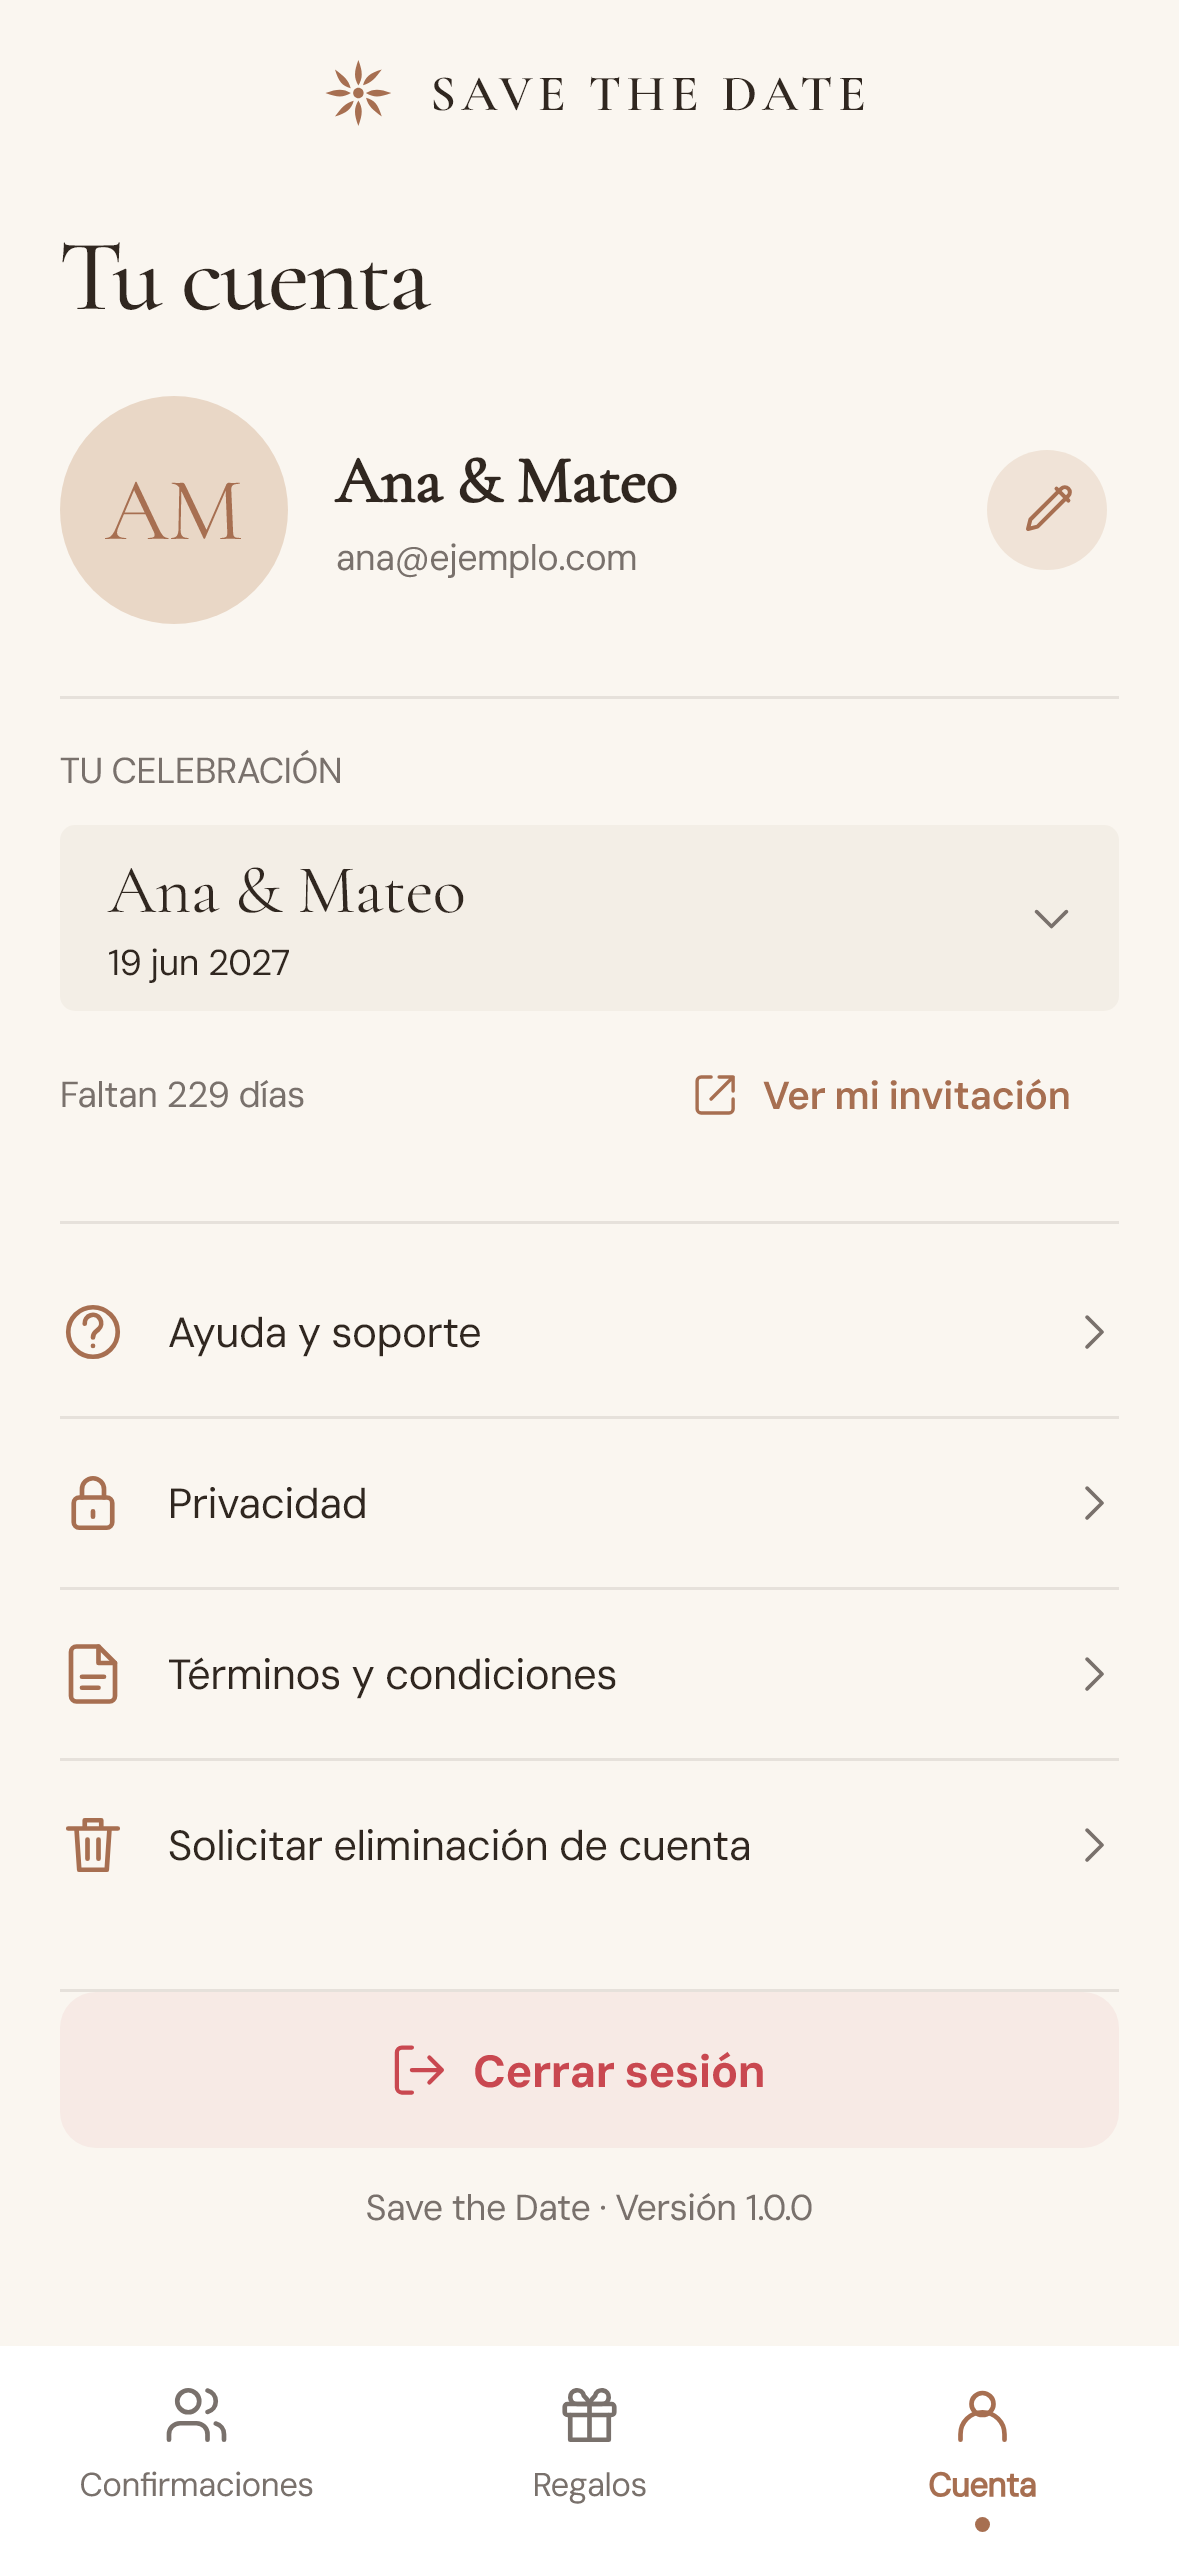
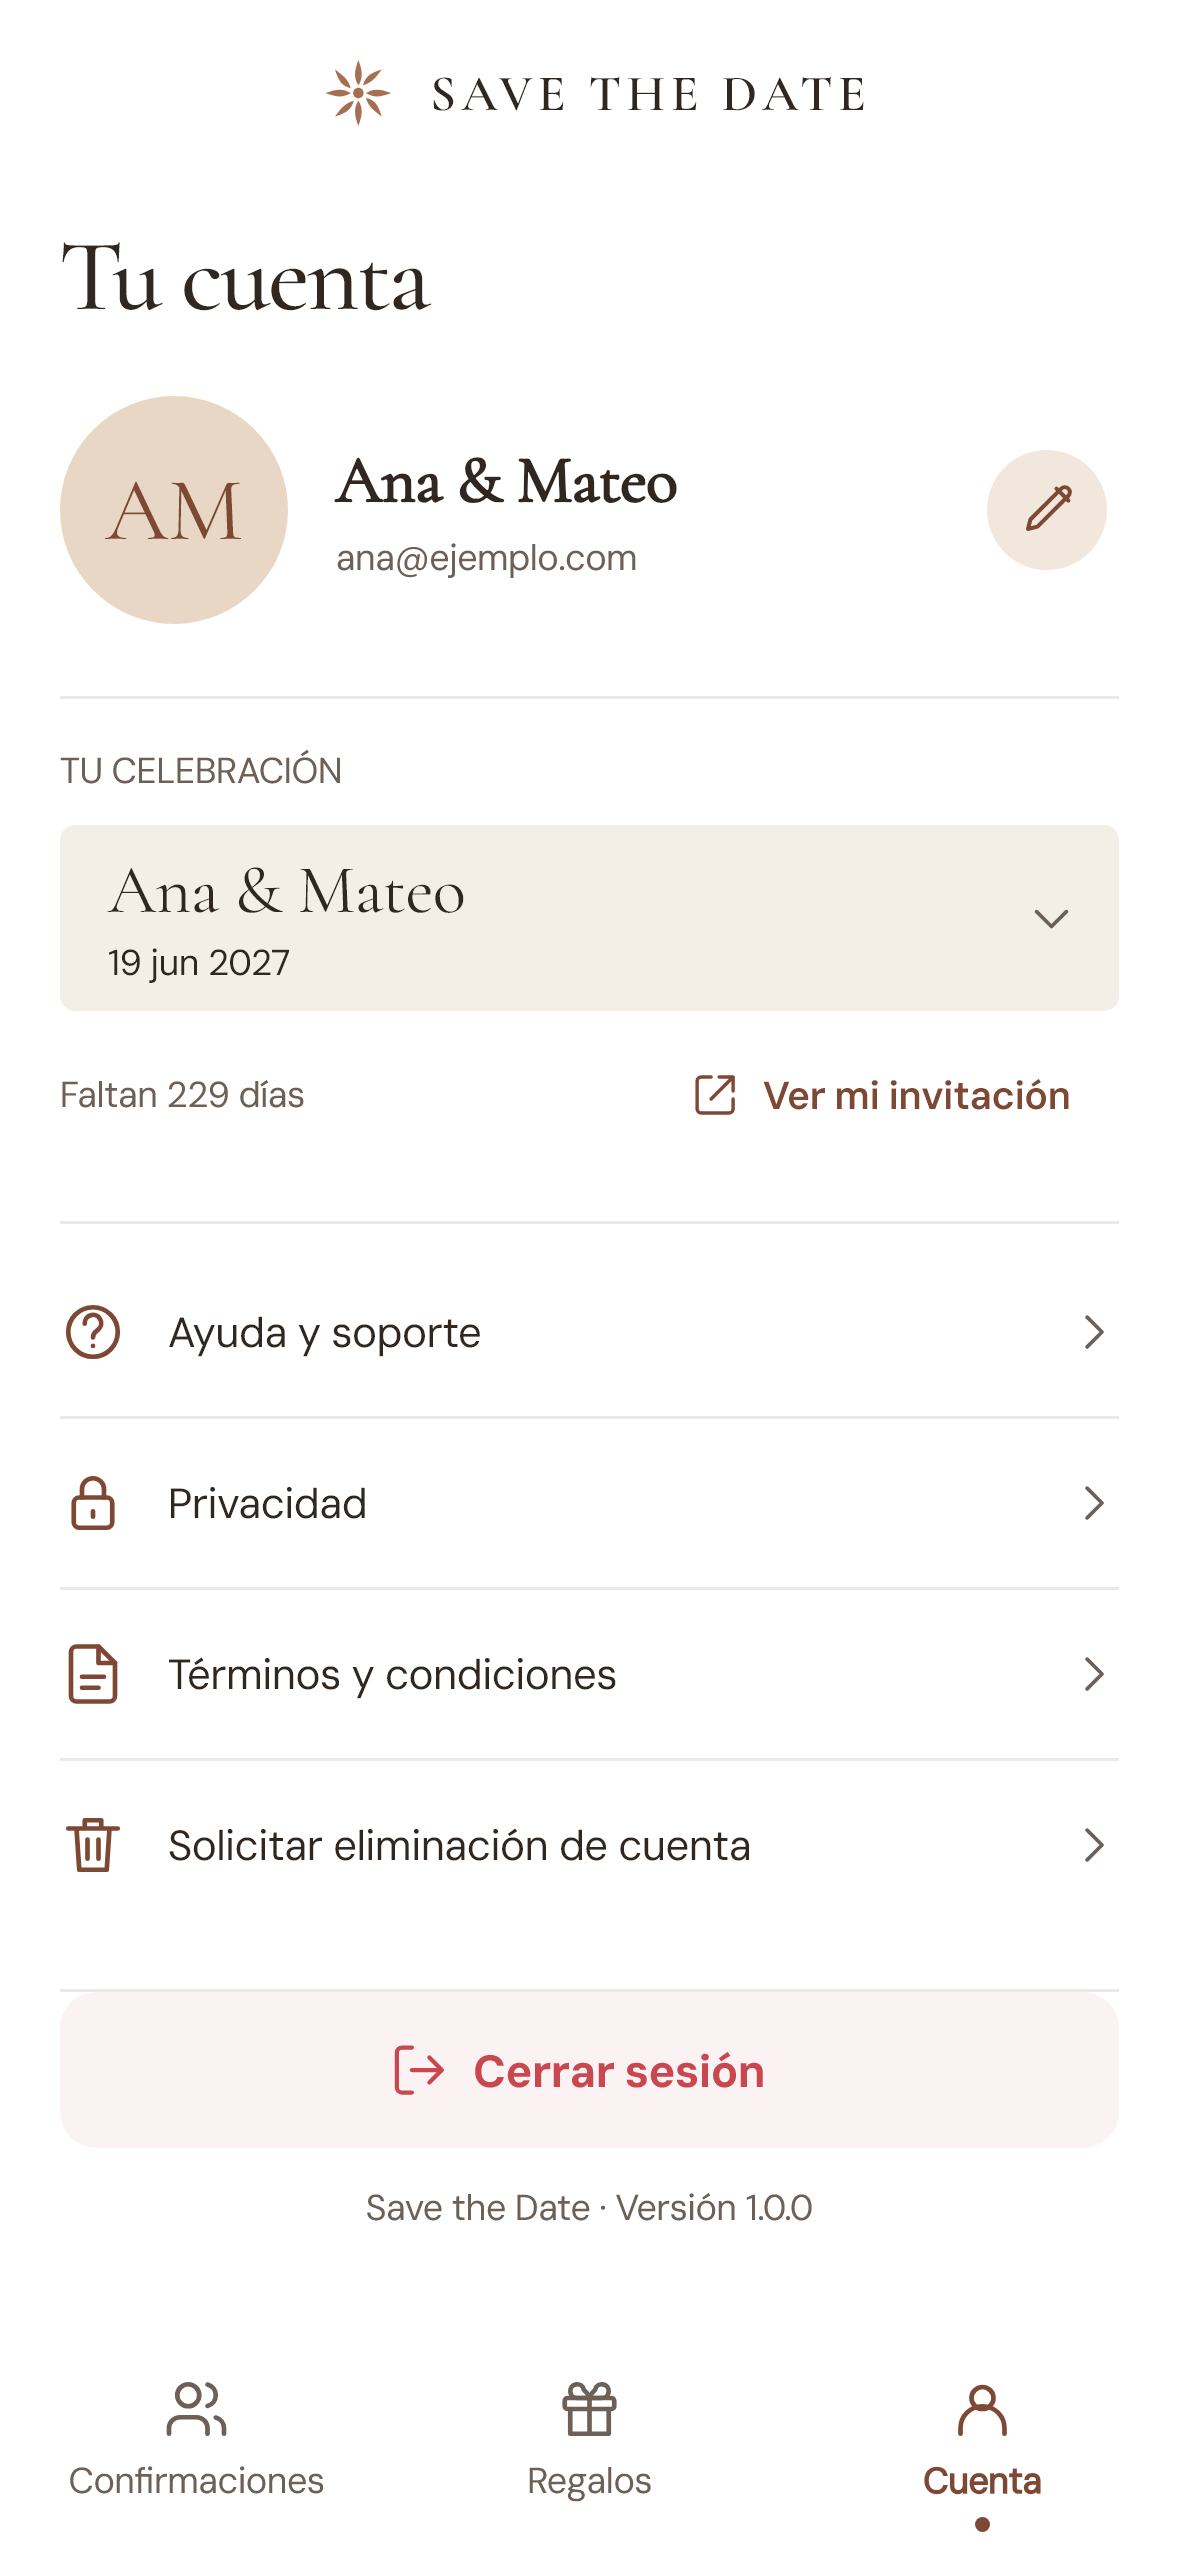
Improve mobile contrast and prepare build 4

diff --git a/lib/ui/theme.dart b/lib/ui/theme.dart
@@ -9,18 +9,21 @@ abstract final class AppTheme {
     final paper = dark ? const Color(0xFF211B2B) : AppConfig.paper;
     final muted = dark
         ? const Color(0xFFC2B8CE)
-        : (wedding ? const Color(0xFF79716C) : const Color(0xFF706883));
+        : (wedding ? const Color(0xFF6C6057) : const Color(0xFF625A70));
     final scheme =
         ColorScheme.fromSeed(
           seedColor: AppConfig.accent,
           brightness: brightness,
         ).copyWith(
           primary: dark ? AppConfig.soft : AppConfig.accent,
-          onPrimary: Colors.white,
+          onPrimary: dark ? AppConfig.ink : Colors.white,
           surface: paper,
           onSurface: ink,
           onSurfaceVariant: muted,
           surfaceContainerLowest: dark ? const Color(0xFF2C2538) : Colors.white,
+          surfaceContainerLow: dark
+              ? const Color(0xFF2C2538)
+              : const Color(0xFFF7F6F4),
           outlineVariant: ink.withValues(alpha: .10),
         );
     TextStyle body(
@@ -103,8 +106,8 @@ abstract final class AppTheme {
           horizontal: 14,
           vertical: 14,
         ),
-        hintStyle: body(13, color: muted.withValues(alpha: .8)),
-        labelStyle: body(13, color: muted),
+        hintStyle: body(14, color: muted),
+        labelStyle: body(14, color: muted),
         border: border,
         enabledBorder: border,
         focusedBorder: border.copyWith(
@@ -129,7 +132,7 @@ abstract final class AppTheme {
       listTileTheme: ListTileThemeData(
         iconColor: muted,
         textColor: ink,
-        selectedColor: AppConfig.accent,
+        selectedColor: scheme.primary,
         selectedTileColor: AppConfig.soft.withValues(alpha: .4),
       ),
     );

diff --git a/lib/ui/widgets/bottom_tabs.dart b/lib/ui/widgets/bottom_tabs.dart
@@ -1,5 +1,4 @@
 import 'package:flutter/material.dart';
-import '../../app_config.dart';
 import 'app_icon.dart';
 
 class BottomTabs extends StatelessWidget {
@@ -36,7 +35,7 @@ class BottomTabs extends StatelessWidget {
                         AppIcon(
                           icons[index],
                           color: selected == index
-                              ? AppConfig.accent
+                              ? Theme.of(context).colorScheme.primary
                               : Theme.of(context).colorScheme.onSurfaceVariant,
                         ),
                         const SizedBox(height: 5),
@@ -44,9 +43,9 @@ class BottomTabs extends StatelessWidget {
                           labels[index],
                           textAlign: TextAlign.center,
                           style: TextStyle(
-                            fontSize: 11,
+                            fontSize: 12,
                             color: selected == index
-                                ? AppConfig.accent
+                                ? Theme.of(context).colorScheme.primary
                                 : Theme.of(
                                     context,
                                   ).colorScheme.onSurfaceVariant,
@@ -62,7 +61,7 @@ class BottomTabs extends StatelessWidget {
                           decoration: BoxDecoration(
                             shape: BoxShape.circle,
                             color: selected == index
-                                ? AppConfig.accent
+                                ? Theme.of(context).colorScheme.primary
                                 : Colors.transparent,
                           ),
                         ),

diff --git a/test/theme_contrast_test.dart b/test/theme_contrast_test.dart
@@ -1,0 +1,38 @@
+import 'package:flutter/material.dart';
+import 'package:flutter_test/flutter_test.dart';
+import 'package:save_the_date/ui/theme.dart';
+
+double contrast(Color a, Color b) {
+  final l1 = a.computeLuminance(), l2 = b.computeLuminance();
+  return (l1 > l2 ? l1 + .05 : l2 + .05) / (l1 > l2 ? l2 + .05 : l1 + .05);
+}
+
+void main() {
+  for (final brightness in Brightness.values) {
+    test('readable text and actions in $brightness', () {
+      final theme = AppTheme.create(brightness);
+      final scheme = theme.colorScheme;
+      for (final surface in [scheme.surface, scheme.surfaceContainerLowest]) {
+        for (final ink in [
+          scheme.onSurface,
+          scheme.onSurfaceVariant,
+          scheme.primary,
+        ]) {
+          expect(contrast(ink, surface), greaterThanOrEqualTo(4.5));
+        }
+      }
+      expect(
+        contrast(scheme.onPrimary, scheme.primary),
+        greaterThanOrEqualTo(4.5),
+      );
+      final button = theme.filledButtonTheme.style!;
+      expect(
+        contrast(
+          button.foregroundColor!.resolve({})!,
+          button.backgroundColor!.resolve({})!,
+        ),
+        greaterThanOrEqualTo(4.5),
+      );
+    });
+  }
+}

diff --git a/lib/ui/widgets/common.dart b/lib/ui/widgets/common.dart
@@ -93,7 +93,7 @@ class FilterTabs extends StatelessWidget {
                   border: Border(
                     bottom: BorderSide(
                       color: selected == n
-                          ? AppConfig.accent
+                          ? Theme.of(context).colorScheme.primary
                           : Theme.of(context).dividerColor,
                       width: selected == n ? 2 : 1,
                     ),
@@ -111,7 +111,7 @@ class FilterTabs extends StatelessWidget {
                         ? FontWeight.w600
                         : FontWeight.w400,
                     color: selected == n
-                        ? AppConfig.accent
+                        ? Theme.of(context).colorScheme.primary
                         : Theme.of(context).colorScheme.onSurfaceVariant,
                   ),
                 ),

diff --git a/lib/ui/widgets/presentation.dart b/lib/ui/widgets/presentation.dart
@@ -4,8 +4,15 @@ import '../../domain/models.dart';
 import 'app_icon.dart';
 import 'brand.dart';
 
-Color positive(BuildContext context) =>
-    wedding ? AppConfig.accent : const Color(0xFF32947B);
+Color positive(BuildContext context) {
+  final scheme = Theme.of(context).colorScheme;
+  return wedding
+      ? scheme.primary
+      : scheme.brightness == Brightness.dark
+      ? const Color(0xFF83D6BA)
+      : const Color(0xFF23705B);
+}
+
 String initialsOf(String name) => name
     .trim()
     .split(RegExp(r'\s+'))

diff --git a/lib/ui/gifts.dart b/lib/ui/gifts.dart
@@ -63,7 +63,7 @@ class GiftRow extends StatelessWidget {
   @override
   Widget build(BuildContext context) {
     final theme = Theme.of(context);
-    final statusColor = wedding ? AppConfig.accent : const Color(0xFF31886D);
+    final statusColor = positive(context);
     return Container(
       margin: EdgeInsets.only(bottom: wedding ? 0 : 12),
       padding: EdgeInsets.symmetric(horizontal: wedding ? 0 : 12, vertical: 16),

diff --git a/lib/app_config.dart b/lib/app_config.dart
@@ -15,8 +15,8 @@ abstract final class AppConfig {
   static const loginTitle = 'Lo importante, cerca.';
   static const homeTitle = 'Tu gente.';
   static const giftsTitle = 'Detalles con cariño.';
-  static const accent = Color(0xFFA76F51),
-      paper = Color(0xFFFAF6F0),
+  static const accent = Color(0xFF7D4934),
+      paper = Color(0xFFFFFFFF),
       ink = Color(0xFF302720),
       soft = Color(0xFFE9D7C6);
 }

diff --git a/lib/ui/account.dart b/lib/ui/account.dart
@@ -292,7 +292,7 @@ class AccountLink extends StatelessWidget {
       color: icon == Symbol.logout
           ? const Color(0xFFC94850)
           : wedding
-          ? AppConfig.accent
+          ? Theme.of(context).colorScheme.primary
           : Theme.of(context).colorScheme.onSurfaceVariant,
     ),
     title: Text(

diff --git a/brand/DESIGN.md b/brand/DESIGN.md
@@ -9,3 +9,5 @@ Floral invitation atelier: generous margins, paper layers, fine rules, tall seri
 Spacing: 8, 16, 24, 32, 48, 64, 96px. Container: 1200px. Mobile: 24px margins. Decorative illustrations are labeled examples. Icons: components/icon.tsx. Keyboard focus uses background or underline; no outline, ring or focus shadow. Reduced motion respected. No native selects.
 
 Motion: dedicated entrance of paper layers and a slow rotating floral seal for weddings; animated ticket, response and continuous ribbon for events. Respect system reduced motion automatically. Never add animation pause controls. No emojis or decorative Unicode icons.
+
+Local palette update (2026-11-02): light app surfaces and scaffold use #ffffff. Secondary text uses #6c6057; actions and links use deep terracotta #7d4934. Keep tinted surfaces for supporting content and retain the system dark theme.
